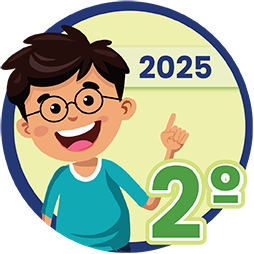
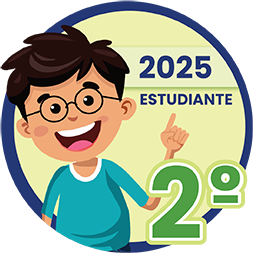
CAmbio de iconos docentes y estudaitnes

Changed region(s): [[0.5512, 0.3583, 0.937, 0.4134]]

diff --git a/app/index.html b/app/index.html
@@ -324,7 +324,7 @@
 					src="./img/iconos/2025/ico-06-2025.png"  /> </a>
 		</div>
 	</div>
-<hr>
+<br>
 	<div class="row">
 		<div class="col-12">
 			<h4>Docentes</h4>
@@ -336,49 +336,49 @@
 	<div class="col-sm-2 col-lg-2">
 			<a href="./data/2025/cuadernillos/cuadernillo_mateamtica_1ero_2025-DOCENTE.pdf" target="_blank">
 				<img alt="Cuadernillo para el docente"
-					class="img-sm img-shake"  
-					src="./img/iconos/2025/ico-book.png"  /> </a>
-					<strong>1</strong>
+					class="img-circle person img-responsive img-shake"  
+					src="./img/iconos/2025/ico-01-2025-docente.png"  /> </a>
+					
 		</div>
 
 		<div class="col-sm-2 col-lg-2">
 			<a href="./data/2025/cuadernillos/cuadernillo_mateamtica_2do_2025-DOCENTE.pdf" target="_blank">
 				<img alt="Cuadernillo para el docente"
-					class="img-sm img-shake"  
-					src="./img/iconos/2025/ico-book.png"  /> </a>
-					<strong>2</strong>
+					class="img-circle person img-responsive img-shake"  
+					src="./img/iconos/2025/ico-02-2025-docente.png"  /> 
+					
 		</div>
 
 		<div class="col-sm-2 col-lg-2">
 			<a href="./data/2025/cuadernillos/cuadernillo_mateamtica_3ero_2025-DOCENTE.pdf" target="_blank">
 				<img alt="Cuadernillo para el docente"
-					class="img-sm img-shake"  
-					src="./img/iconos/2025/ico-book.png"  /> </a>
-					<strong>3</strong>
+					class="img-circle person img-responsive img-shake"  
+					src="./img/iconos/2025/ico-03-2025-docente.png"  /> 
+					
 		</div>
 
 		<div class="col-sm-2 col-lg-2">
 			<a href="./data/2025/cuadernillos/cuadernillo_mateamtica_4to_2025-DOCENTE.pdf" target="_blank">
 				<img alt="Cuadernillo para el docente"
-					class="img-sm img-shake"  
-					src="./img/iconos/2025/ico-book.png"  /> </a>
-					<strong>4</strong>
+					class="img-circle person img-responsive img-shake"  
+					src="./img/iconos/2025/ico-04-2025-docente.png"  /> 
+					
 		</div>
 
 		<div class="col-sm-2 col-lg-2">
 			<a href="./data/2025/cuadernillos/cuadernillo_mateamtica_5to_2025-DOCENTE.pdf" target="_blank">
 				<img alt="Cuadernillo para el docente"
-					class="img-sm img-shake"  
-					src="./img/iconos/2025/ico-book.png"  /> </a>
-					<strong>5</strong>
+					class="img-circle person img-responsive img-shake"  
+					src="./img/iconos/2025/ico-05-2025-docente.png"  /> 
+					
 		</div>
 
 		<div class="col-sm-2 col-lg-2">
 			<a href="./data/2025/cuadernillos/cuadernillo_mateamtica_6to_2025-DOCENTE.pdf" target="_blank">
 				<img alt="Cuadernillo para el docente"
-					class="img-sm img-shake"  
-					src="./img/iconos/2025/ico-book.png"  /> </a>
-					<strong>6</strong>
+					class="img-circle person img-responsive img-shake"  
+					src="./img/iconos/2025/ico-06-2025-docente.png"  /> 
+					
 		</div>
 
 
@@ -386,9 +386,11 @@
 </div>
 
 
+
 </div>
 
 
+<hr>
 
 	
 	<!-- *************************2024************************************** -->
